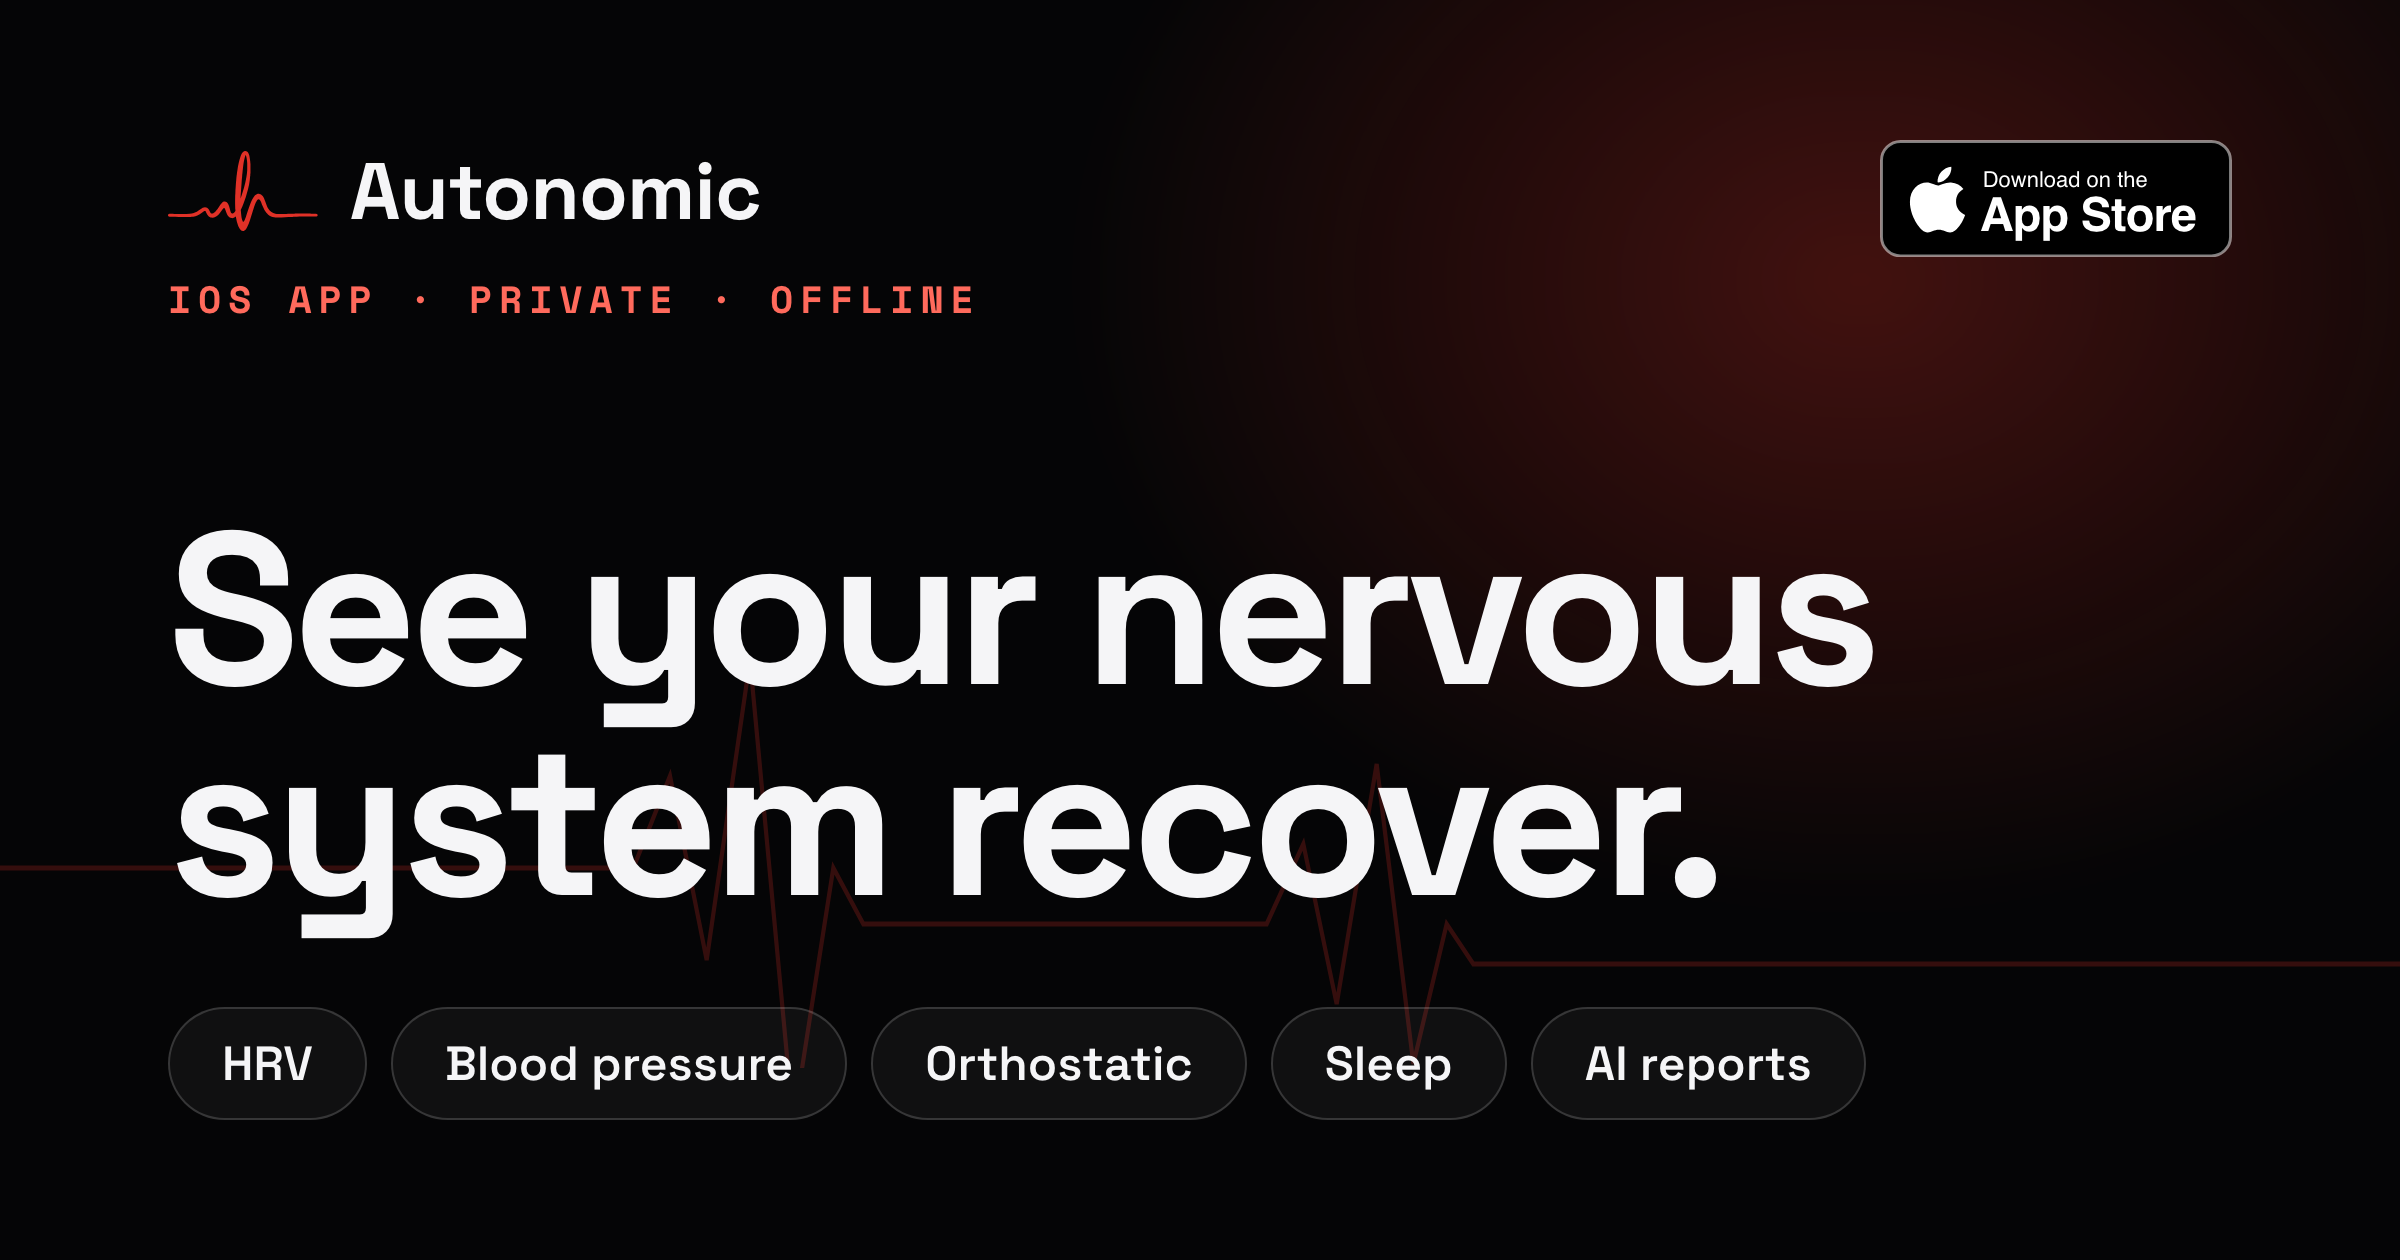
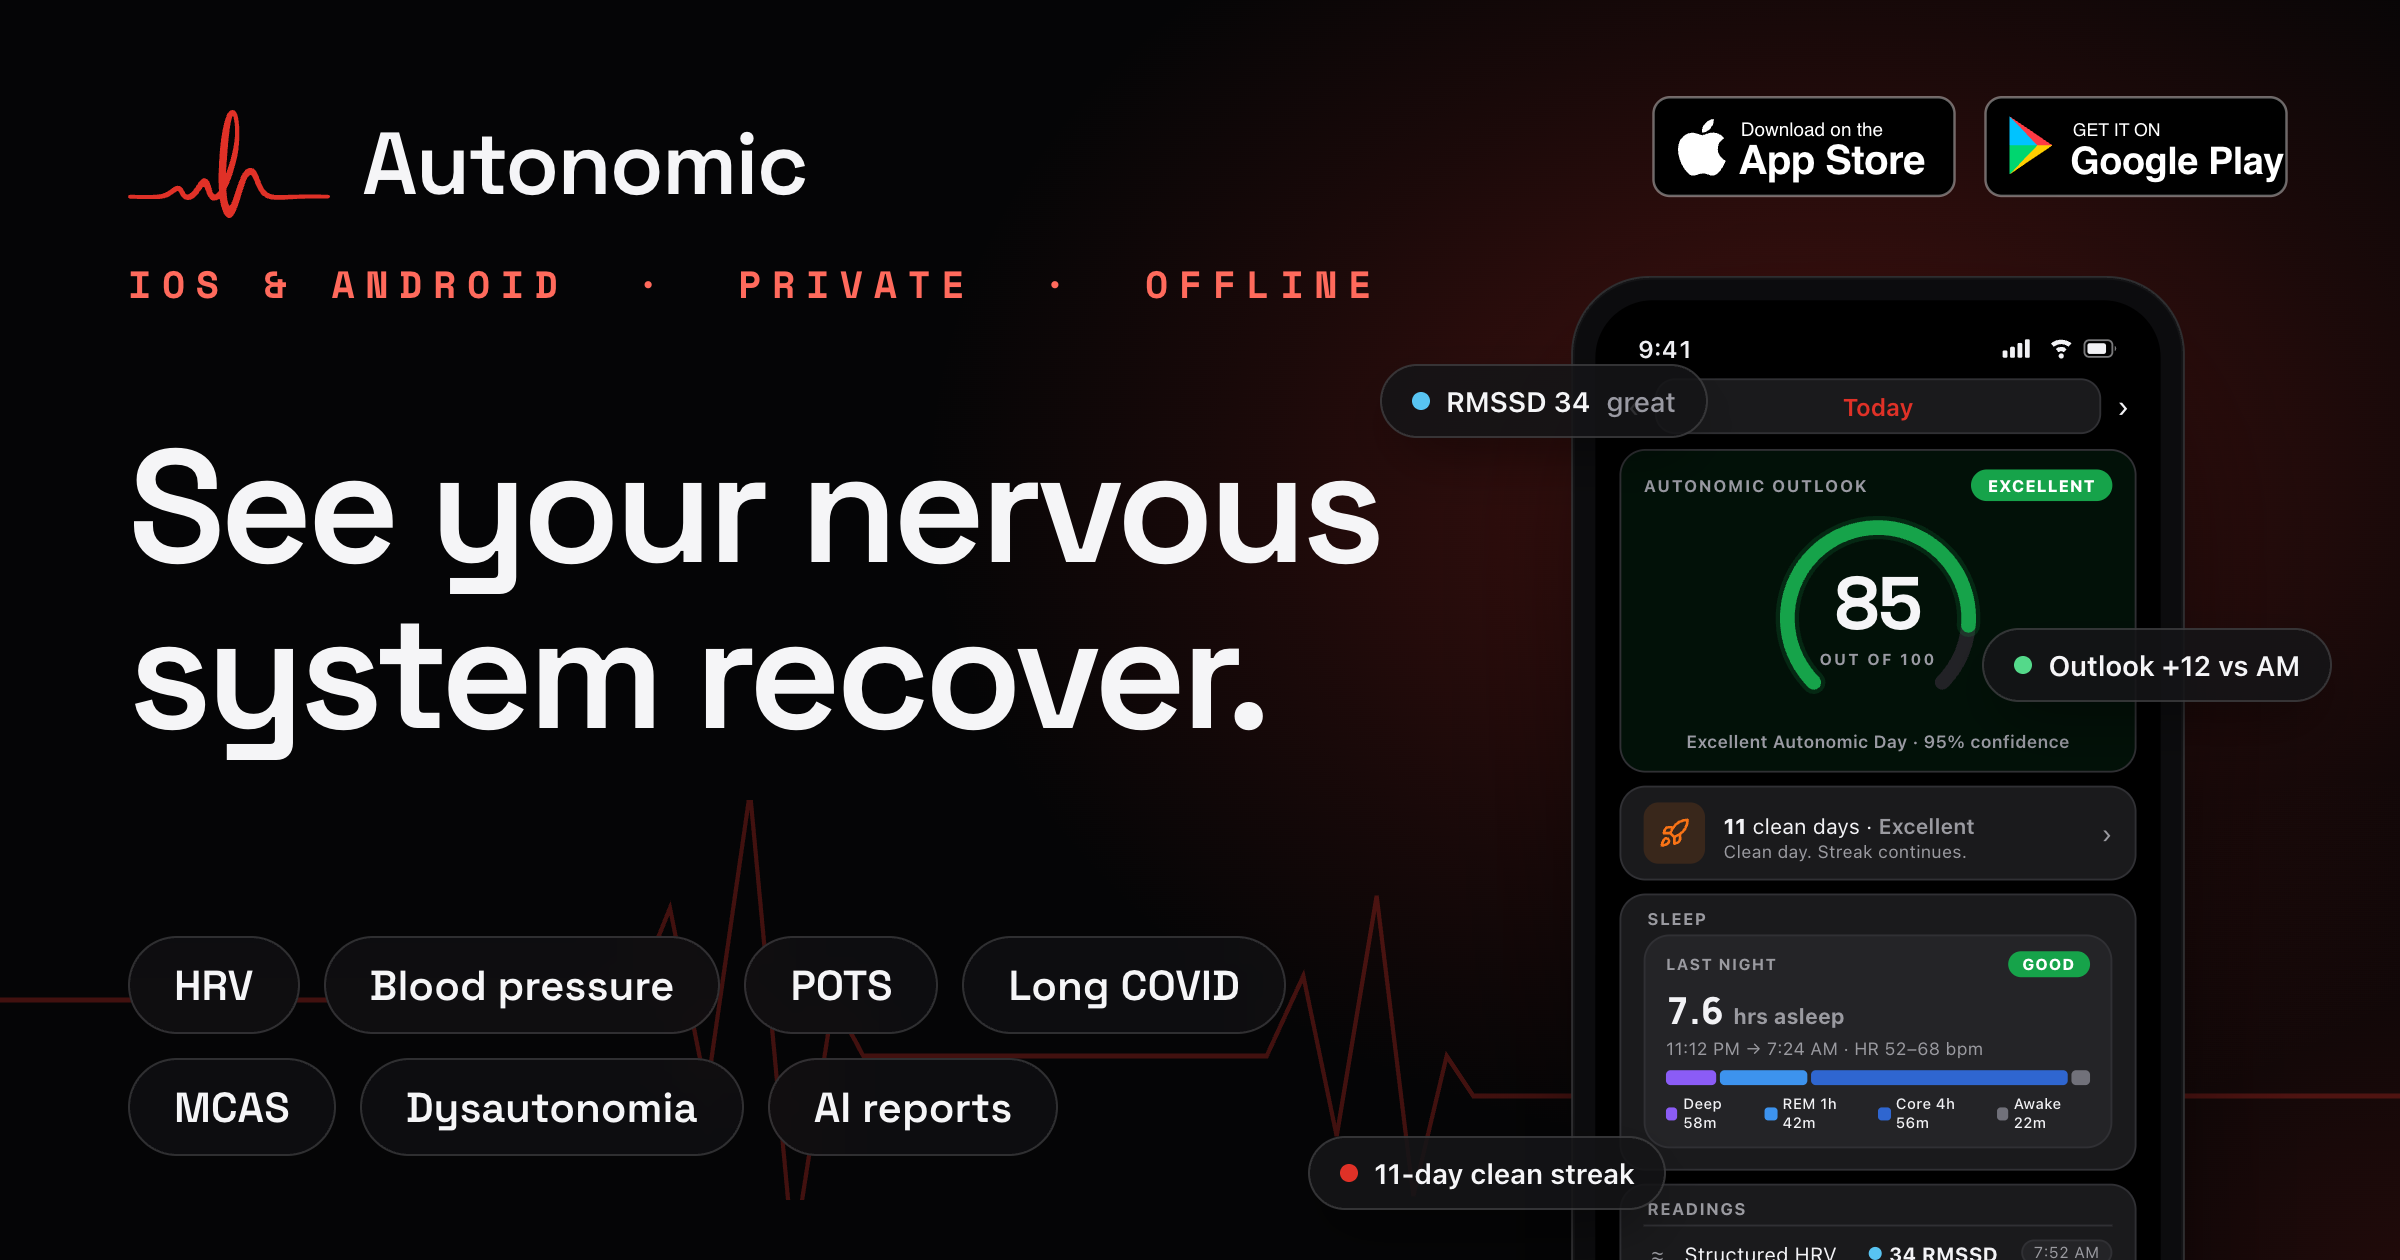
Landing: new OG image + iOS & Android copy
Redesign the social share/OG image around the real in-app journal UI
(Outlook gauge, clean-day streak, sleep stages, readings) with App Store
and Google Play badges, and update page copy, meta tags and structured
data to reflect that Autonomic is on both iOS and Android.

diff --git a/landing/src/routes/+page.svelte b/landing/src/routes/+page.svelte
@@ -414,14 +414,14 @@
     mainEntity: [
       { '@type': 'Question', name: 'How much does Autonomic cost?', acceptedAnswer: { '@type': 'Answer', text: `Autonomic is free to download and the journal is free forever, with no account and no ads. Autonomic Pro is ${monthly} per month or ${yearly} per year and unlocks unlimited HRV captures, your full history, POTS testing and AI reports. Every install opens with ${pricing.trialDays} days of Pro so you can try it before paying. Your data stays private on your device and is never sold.` } },
       { '@type': 'Question', name: 'What is free and what needs Pro?', acceptedAnswer: { '@type': 'Answer', text: 'Free covers the daily journal (sleep, meds, symptoms, triggers, hydration), manual readings like blood pressure and resting heart rate, your daily autonomic score and outlook, the Apple Watch heart-rate monitor, backups and export, plus one live HRV capture a day and 14 days of progress charts. Pro adds unlimited live HRV capture, all progress views, full historical metric analysis, POTS testing and episode tracking, and AI insight and doctor reports.' } },
-      { '@type': 'Question', name: 'Does it work offline?', acceptedAnswer: { '@type': 'Answer', text: 'Completely. Autonomic is a fully offline iOS app. All scoring, trends and reports are computed locally, so it works on a plane, in a clinic basement, or anywhere without signal.' } },
+      { '@type': 'Question', name: 'Does it work offline?', acceptedAnswer: { '@type': 'Answer', text: 'Completely. Autonomic is a fully offline app for iOS and Android. All scoring, trends and reports are computed locally, so it works on a plane, in a clinic basement, or anywhere without signal.' } },
       { '@type': 'Question', name: 'Which conditions is it for?', acceptedAnswer: { '@type': 'Answer', text: 'It is built for people managing POTS, dysautonomia, long COVID and post-viral or post-illness autonomic recovery, where day-to-day HRV, heart rate and orthostatic patterns matter.' } },
       { '@type': 'Question', name: 'Do I need a wearable?', acceptedAnswer: { '@type': 'Answer', text: 'No. You can type readings from any source, a chest strap, a ring, a blood-pressure cuff, or a fingertip pulse oximeter. Autonomic scores whatever you log.' } },
       { '@type': 'Question', name: 'How do the AI insights work?', acceptedAnswer: { '@type': 'Answer', text: 'Autonomic assembles your logged data over a date range into a structured analysis prompt that you copy into Claude, Gemini or ChatGPT. The text is generated locally; nothing is sent automatically.' } }
     ]
   };
 
-  // The AI-report picker. Each report is the REAL prompt the Autonomic iOS app
+  // The AI-report picker. Each report is the REAL prompt the Autonomic app
   // builds, run over a fabricated week of sample data (see src/lib/demoPrompts.ts).
   // The prompt rides on the chip as a data-prompt attribute (Svelte escapes it);
   // the site script in app.html swaps it into the mock on click.
@@ -439,7 +439,7 @@
 </script>
 
 <svelte:head>
-  <title>Autonomic for iOS | Private HRV, POTS &amp; Dysautonomia Recovery App</title>
+  <title>Autonomic for iOS &amp; Android | Private HRV, POTS &amp; Dysautonomia Recovery App</title>
   <meta
     name="description"
     content="Autonomic is a private, offline journal that scores your daily HRV, blood pressure, sleep and orthostatic readings against medical thresholds, so people recovering from POTS, dysautonomia and post-viral illness can see what's helping and what's hurting."
@@ -448,7 +448,7 @@
 
   <meta property="og:type" content="website" />
   <meta property="og:url" content="https://autonomic.care/" />
-  <meta property="og:title" content="Autonomic for iOS | See your nervous system recover" />
+  <meta property="og:title" content="Autonomic for iOS &amp; Android | See your nervous system recover" />
   <meta property="og:description" content="Medically-scored daily readings, trend analysis, and AI-ready insight reports for autonomic recovery. Private, offline, on-device." />
   <meta property="og:image" content="https://autonomic.care/og.png" />
   <meta property="og:image:width" content="1200" />
@@ -456,7 +456,7 @@
   <meta property="og:image:type" content="image/png" />
   <meta property="og:image:alt" content="Autonomic: see your nervous system recover. A private journal that scores your daily HRV, blood pressure, sleep and orthostatic readings." />
   <meta name="twitter:card" content="summary_large_image" />
-  <meta name="twitter:title" content="Autonomic for iOS | Private autonomic recovery app" />
+  <meta name="twitter:title" content="Autonomic for iOS &amp; Android | Private autonomic recovery app" />
   <meta name="twitter:description" content="Score your HRV, BP, sleep & orthostatic data. Spot trends. Generate doctor-ready and AI-ready reports. Offline and private." />
   <meta name="twitter:image" content="https://autonomic.care/og.png" />
   <meta name="twitter:image:alt" content="Autonomic: private, offline autonomic recovery journal for POTS, dysautonomia and long COVID." />
@@ -1173,7 +1173,7 @@
     <div class="faq">
       <details><summary>How much does it cost, and is my data private?<span class="fq-i">+</span></summary><p>The app is free to download and your journal is free forever, with no account and no ads. Autonomic Pro is {monthly}/month or {yearly}/year and unlocks the deep-analysis tools. Every install opens with {pricing.trialDays} days of Pro, no card, so you can try all of it first. Your data is always private: stored on your device, never sold, never sent to a server.</p></details>
       <details><summary>What’s free, and what needs Pro?<span class="fq-i">+</span></summary><p>Free covers the daily journal, your manual readings, your daily Autonomic Outlook, the Apple Watch heart-rate monitor, backups and export, plus one live HRV capture a day and 14 days of charts. Pro adds unlimited HRV capture, your full history, POTS testing and episode tracking, and AI insight and doctor reports. There’s a full breakdown in <a href="#pricing">the pricing table</a>, and the same table lives inside the app.</p></details>
-      <details><summary>Does it really work offline?<span class="fq-i">+</span></summary><p>Completely. It’s a fully offline iOS app. Scoring, trends and reports are computed locally, so it works anywhere, no signal required.</p></details>
+      <details><summary>Does it really work offline?<span class="fq-i">+</span></summary><p>Completely. It’s a fully offline app on both iOS and Android. Scoring, trends and reports are computed locally, so it works anywhere, no signal required.</p></details>
       <details><summary>Which conditions is it built for?<span class="fq-i">+</span></summary><p>POTS, dysautonomia, long COVID and post-viral or post-illness recovery, anywhere daily HRV, heart-rate and orthostatic patterns matter.</p></details>
       <details><summary>Is Autonomic available on Android?<span class="fq-i">+</span></summary><p>Yes. Autonomic is available now on both iPhone (App Store) and Android (Google Play). It’s the same app, the same price, and the same private, offline design on either platform.</p></details>
       <details><summary>Do I need a wearable or special hardware?<span class="fq-i">+</span></summary><p>No, you don’t. You can type readings in by hand from any source. That said, tools like a Polar H10 chest strap, an Apple Watch or a blood pressure cuff make Autonomic far more powerful, the more data you feed it, the better you understand how your body is doing.</p></details>

diff --git a/landing/src/app.html b/landing/src/app.html
@@ -69,7 +69,7 @@
               "height": 512
             },
             "image": "https://autonomic.care/og.png",
-            "description": "A private, offline iOS journal that scores daily HRV, blood pressure, sleep and orthostatic readings against medical thresholds, for recovery from POTS, dysautonomia and post-viral illness.",
+            "description": "A private, offline iOS and Android journal that scores daily HRV, blood pressure, sleep and orthostatic readings against medical thresholds, for recovery from POTS, dysautonomia and post-viral illness.",
             "slogan": "See your nervous system recover."
           },
           {

diff --git a/landing/src/lib/demoPrompts.ts b/landing/src/lib/demoPrompts.ts
@@ -1,5 +1,5 @@
 // AUTO-GENERATED demo prompts for the "Bring your own AI" section.
-// These are the REAL prompts the Autonomic iOS app builds (via buildPrompt in
+// These are the REAL prompts the Autonomic app builds (via buildPrompt in
 // mobile/src/lib/analysis/reports.ts), run over a fabricated week of sample
 // data: recovering from a crash, steady improvement to a strong day, then a
 // trigger (party: alcohol, pizza, aged cheese, a late night and an overlong
